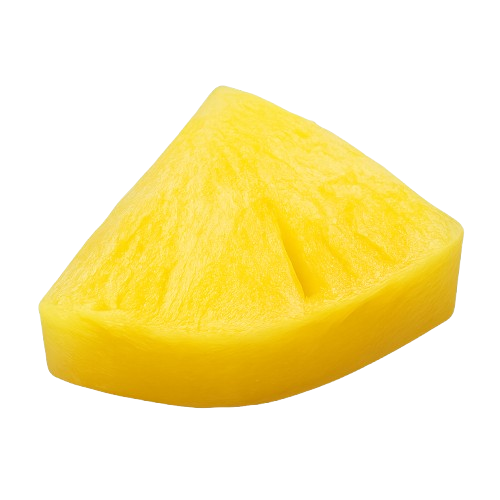
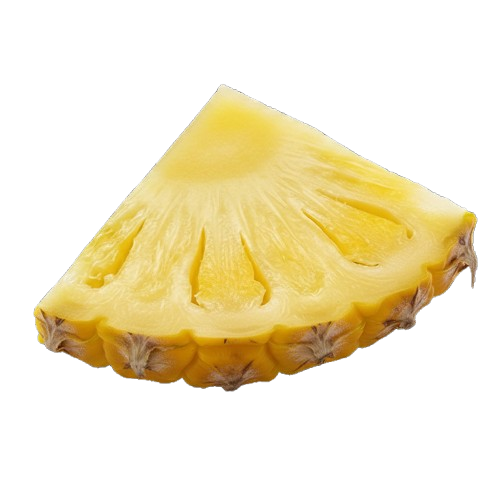
first commit

diff --git a/components/PizzaConfigurator.tsx b/components/PizzaConfigurator.tsx
@@ -127,31 +127,31 @@ export default function PizzaConfigurator() {
     const pizzaRect = pizzaRef.current.getBoundingClientRect()
     const pizzaCenterX = pizzaRect.left + pizzaRect.width / 2
     const pizzaCenterY = pizzaRect.top + pizzaRect.height / 2
-    
+
     // حساب نصف القطر للبيتزا المتوسطة (الحجم الأساسي)
     const baseRadius = (pizzaRect.width / 2) / sizeConfig[selectedSize].scale
     // استخدام 55% فقط من نصف القطر لضمان البقاء داخل الحدود
     const safeRadius = baseRadius * 0.55
-    
+
     // حجم القطعة الأساسي (بدون تكبير)
     const basePieceSize = ingredient.pieceSize
     const pieceHalfSize = basePieceSize / 2
 
     const newFlyingPieces: FlyingPiece[] = []
-    
+
     for (let i = 0; i < ingredient.pieceCount; i++) {
       pieceCounter.current += 1
-      
+
       const angle = Math.random() * Math.PI * 2
       const distance = Math.sqrt(Math.random()) * (safeRadius - pieceHalfSize)
-      
+
       // المواقع النسبية (بدون تكبير)
       const x = Math.cos(angle) * distance
       const y = Math.sin(angle) * distance
-      
+
       // لكن للعرض المؤقت نستخدم الحجم الحالي
       const currentScale = sizeConfig[selectedSize].scale
-      
+
       newFlyingPieces.push({
         id: `${ingredient.id}-${pieceCounter.current}`,
         ingredientId: ingredient.id,
@@ -184,7 +184,7 @@ export default function PizzaConfigurator() {
     if (!pizzaRect) return
 
     const currentScale = sizeConfig[selectedSize].scale
-    
+
     // حساب الموقع النسبي (بدون تكبير)
     const relativeX = (piece.endX - (pizzaRect.left + pizzaRect.width / 2)) / currentScale
     const relativeY = (piece.endY - (pizzaRect.top + pizzaRect.height / 2)) / currentScale
@@ -208,7 +208,7 @@ export default function PizzaConfigurator() {
     if (isBoxing) return
     setIsBoxing(true)
     setBoxPhase("appearing")
-    
+
     setTimeout(() => setBoxPhase("pizza-entering"), 600)
     setTimeout(() => setBoxPhase("closing"), 1400)
     setTimeout(() => setBoxPhase("closed"), 2000)
@@ -236,7 +236,7 @@ export default function PizzaConfigurator() {
         ...prev,
         [currentPizza.id]: [],
       }))
-      
+
       setAddedIngredients((prev) => ({
         ...prev,
         [currentPizza.id]: new Set(),
@@ -276,7 +276,9 @@ export default function PizzaConfigurator() {
       {/* Header */}
       <header className="p-4 flex items-center justify-between border-b border-border">
         <div>
-          <h1 className="text-2xl font-bold text-foreground">Pizza Studio</h1>
+          <h1 className="text-3xl md:text-4xl font-extrabold text-orange-500 uppercase tracking-wider drop-shadow-lg">
+            Forano
+          </h1>
           <p className="text-sm text-muted-foreground">Build your perfect pizza</p>
         </div>
         <Button
@@ -326,8 +328,8 @@ export default function PizzaConfigurator() {
         <div className="relative">
           {/* Pizza Box Animation */}
           {isBoxing && boxPhase !== "none" && (
-            <BoxAnimation 
-              phase={boxPhase} 
+            <BoxAnimation
+              phase={boxPhase}
               cartPosition={getCartPosition()}
               pizzaRef={pizzaRef}
               pizzaSize={selectedSize}
@@ -399,8 +401,8 @@ export default function PizzaConfigurator() {
               disabled={isBoxing}
               className={`
                 w-12 h-12 rounded-full font-bold text-lg transition-all duration-300
-                ${selectedSize === size 
-                  ? "bg-primary text-primary-foreground shadow-lg scale-110" 
+                ${selectedSize === size
+                  ? "bg-primary text-primary-foreground shadow-lg scale-110"
                   : "bg-muted text-muted-foreground hover:bg-muted-foreground/20 hover:scale-105"
                 }
                 disabled:opacity-50 disabled:cursor-not-allowed
@@ -421,9 +423,8 @@ export default function PizzaConfigurator() {
             <button
               key={index}
               onClick={() => !isTransitioning && !isBoxing && setCurrentIndex(index)}
-              className={`w-2 h-2 rounded-full transition-all ${
-                index === currentIndex ? "bg-primary w-4" : "bg-muted hover:bg-muted-foreground/50"
-              }`}
+              className={`w-2 h-2 rounded-full transition-all ${index === currentIndex ? "bg-primary w-4" : "bg-muted hover:bg-muted-foreground/50"
+                }`}
             />
           ))}
         </div>
@@ -452,11 +453,10 @@ export default function PizzaConfigurator() {
                   handleAddIngredient(ingredient, rect)
                 }}
                 disabled={isBoxing || isAdded}
-                className={`flex-shrink-0 flex flex-col items-center justify-center gap-1.5 p-3 rounded-xl transition-all group snap-center min-w-[100px] ${
-                  isAdded 
-                    ? "bg-primary/10 opacity-60 cursor-not-allowed" 
+                className={`flex-shrink-0 flex flex-col items-center justify-center gap-1.5 p-3 rounded-xl transition-all group snap-center min-w-[100px] ${isAdded
+                    ? "bg-primary/10 opacity-60 cursor-not-allowed"
                     : "bg-background hover:bg-accent"
-                }`}
+                  }`}
               >
                 <div className="relative w-14 h-14 rounded-full overflow-hidden shadow-md transition-transform group-hover:scale-110">
                   <Image
@@ -576,12 +576,12 @@ export default function PizzaConfigurator() {
 }
 
 // Simple Box Animation Component using CSS
-function BoxAnimation({ 
-  phase, 
+function BoxAnimation({
+  phase,
   cartPosition,
   pizzaRef,
   pizzaSize,
-}: { 
+}: {
   phase: "appearing" | "pizza-entering" | "closing" | "closed" | "flying"
   cartPosition: { x: number; y: number }
   pizzaRef: React.RefObject<HTMLDivElement>
@@ -655,7 +655,7 @@ function BoxAnimation({
 
   return (
     <div style={getContainerStyle()}>
-      <div 
+      <div
         className="relative"
         style={{
           width: boxSize,
@@ -663,7 +663,7 @@ function BoxAnimation({
         }}
       >
         {/* قاعدة الكرتونة المربعة */}
-        <div 
+        <div
           className="absolute inset-0 bg-gradient-to-br from-[#d4a574] to-[#b8875a] rounded-lg shadow-2xl border-4 border-[#a67c52]"
           style={{
             boxShadow: "0 20px 60px rgba(0,0,0,0.4), inset 0 -2px 10px rgba(0,0,0,0.2)",
@@ -676,7 +676,7 @@ function BoxAnimation({
               <div className="absolute left-1/2 top-0 bottom-0 w-0.5 bg-[#8b6f47] opacity-40 -translate-x-1/2" />
               {/* خط أفقي */}
               <div className="absolute top-1/2 left-0 right-0 h-0.5 bg-[#8b6f47] opacity-40 -translate-y-1/2" />
-              
+
               {/* زوايا الكرتونة */}
               <div className="absolute top-2 left-2 w-8 h-8 border-t-2 border-l-2 border-[#8b6f47] opacity-50" />
               <div className="absolute top-2 right-2 w-8 h-8 border-t-2 border-r-2 border-[#8b6f47] opacity-50" />
@@ -686,14 +686,14 @@ function BoxAnimation({
           </div>
 
           {/* جوانب الكرتونة - تأثير 3D */}
-          <div className="absolute -left-1 top-2 bottom-2 w-3 bg-[#9d7a52] rounded-l" 
-               style={{ transform: "skewY(-2deg)" }} />
-          <div className="absolute -right-1 top-2 bottom-2 w-3 bg-[#9d7a52] rounded-r" 
-               style={{ transform: "skewY(2deg)" }} />
+          <div className="absolute -left-1 top-2 bottom-2 w-3 bg-[#9d7a52] rounded-l"
+            style={{ transform: "skewY(-2deg)" }} />
+          <div className="absolute -right-1 top-2 bottom-2 w-3 bg-[#9d7a52] rounded-r"
+            style={{ transform: "skewY(2deg)" }} />
         </div>
 
         {/* الغطاء العلوي المربع */}
-        <div 
+        <div
           className="absolute left-0 right-0 origin-bottom"
           style={{
             height: boxSize * 0.15,
@@ -703,7 +703,7 @@ function BoxAnimation({
             transition: "transform 0.8s cubic-bezier(0.4, 0, 0.2, 1)",
           }}
         >
-          <div 
+          <div
             className="w-full h-full bg-gradient-to-br from-[#d4a574] to-[#b8875a] rounded-t-lg shadow-2xl border-4 border-[#a67c52] border-b-0 relative"
             style={{
               boxShadow: "0 -10px 30px rgba(0,0,0,0.3), inset 0 2px 10px rgba(0,0,0,0.2)",
@@ -719,9 +719,9 @@ function BoxAnimation({
             {(phase === "closed" || phase === "flying") && (
               <div className="absolute inset-0 flex items-center justify-center">
                 <div className="bg-[oklch(0.65_0.18_35)] rounded-full w-24 h-24 flex items-center justify-center shadow-lg"
-                     style={{
-                       boxShadow: "0 4px 15px rgba(220, 38, 38, 0.5)",
-                     }}>
+                  style={{
+                    boxShadow: "0 4px 15px rgba(220, 38, 38, 0.5)",
+                  }}>
                   <div className="text-center">
                     <div className="text-white font-bold text-xl tracking-wider">PIZZA</div>
                     <div className="text-white text-xs mt-0.5">Fresh &amp; Hot</div>
@@ -796,10 +796,10 @@ function FlyingPieceComponent({
   const currentY = piece.startY + dy * progress + arcHeight * Math.sin(progress * Math.PI)
 
   // Scale: start small, grow, then settle
-  const scale = progress < 0.3 
-    ? 0.5 + progress * 1.5 
-    : progress < 0.7 
-      ? 1 + (progress - 0.3) * 0.25 
+  const scale = progress < 0.3
+    ? 0.5 + progress * 1.5
+    : progress < 0.7
+      ? 1 + (progress - 0.3) * 0.25
       : 1.1 - (progress - 0.7) * 0.3
 
   // Spin during flight with random tumbling
@@ -819,11 +819,11 @@ function FlyingPieceComponent({
         opacity: progress > 0.9 ? 1 - (progress - 0.9) * 5 : 1, // Fade slightly at end
       }}
     >
-      <Image 
-        src={ingredient.pieceImage || "/placeholder.svg"} 
-        alt={ingredient.name} 
-        fill 
-        className="object-cover" 
+      <Image
+        src={ingredient.pieceImage || "/placeholder.svg"}
+        alt={ingredient.name}
+        fill
+        className="object-cover"
       />
     </div>
   )
